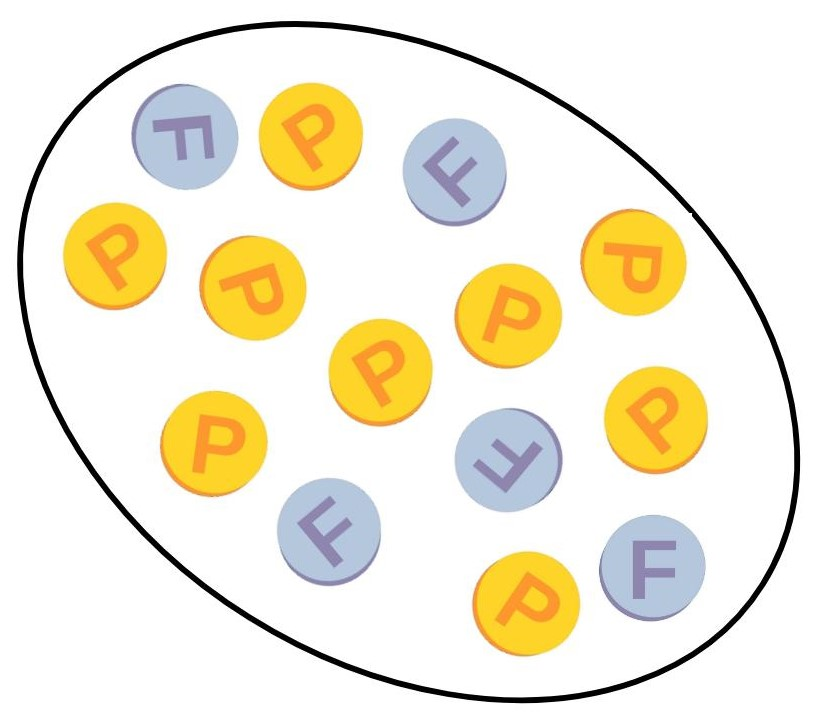
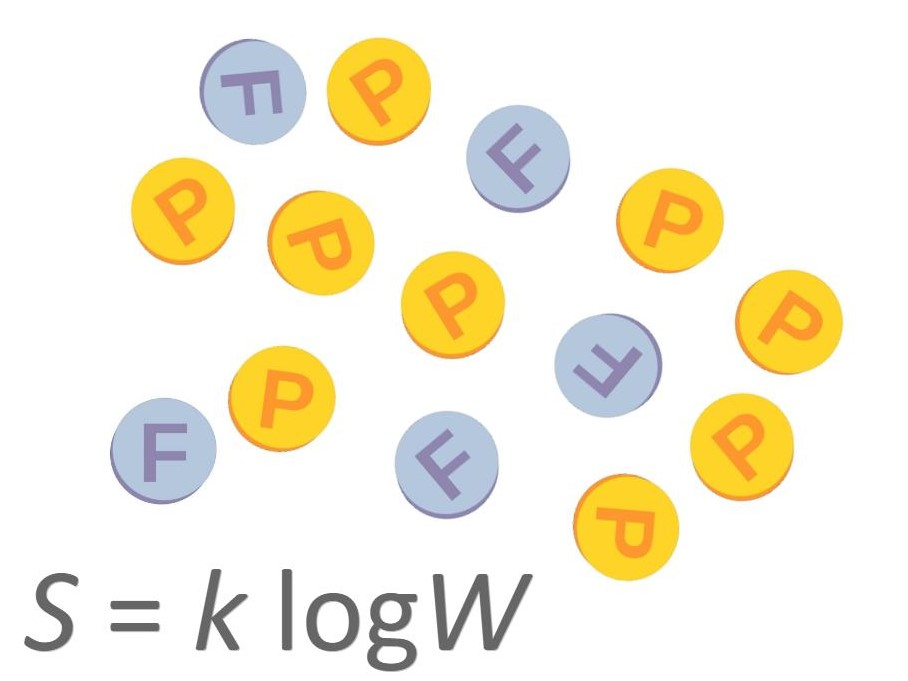
Updated presentation of entropie 1st post

diff --git a/index.html b/index.html
@@ -76,8 +76,8 @@
         <div class="card" style="width: 400px;">
           <img src="images/Illustration_entropie.jpg" style="width: 100%;" alt="Image is missing, sorry">
           <div class="card-body">
-            <h4>Entropie</h4>
-            <p class="card-text">Qu'est-ce que l'entropie ?</p>
+            <h4>Entropie (1)</h4>
+            <p class="card-text">L'entropie est-elle une mesure du désordre ? Voyons ce qu'il en est en jouant à <i>Pile ou Face</i>.</p>
             <a href="posts/entropie.html" class="btn btn-primary">Lire</a>
           </div>
         </div>
